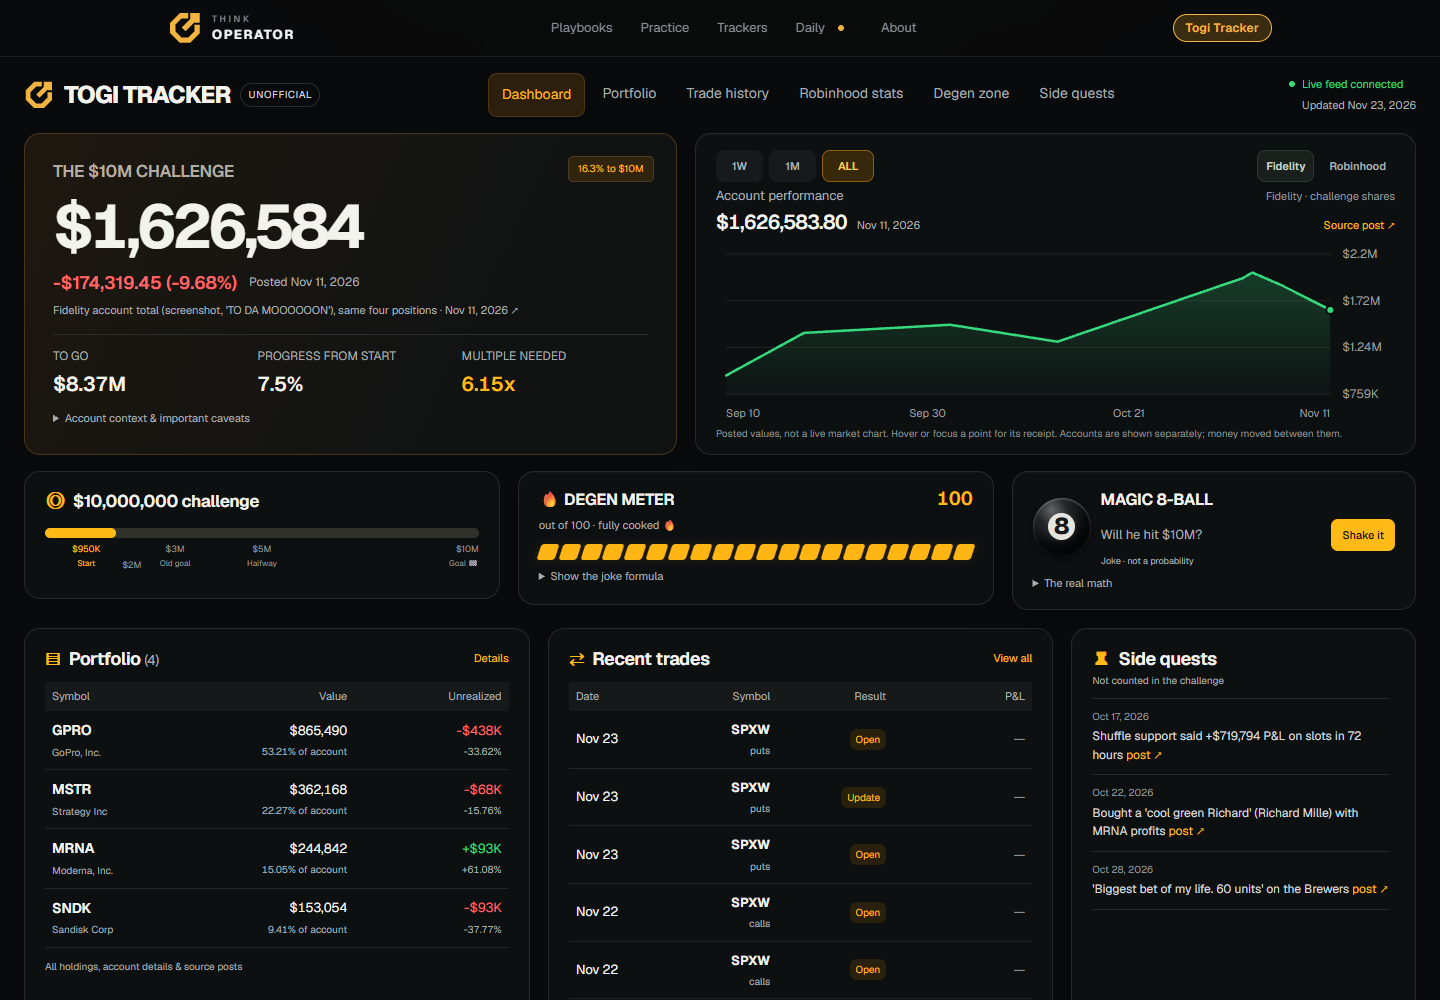
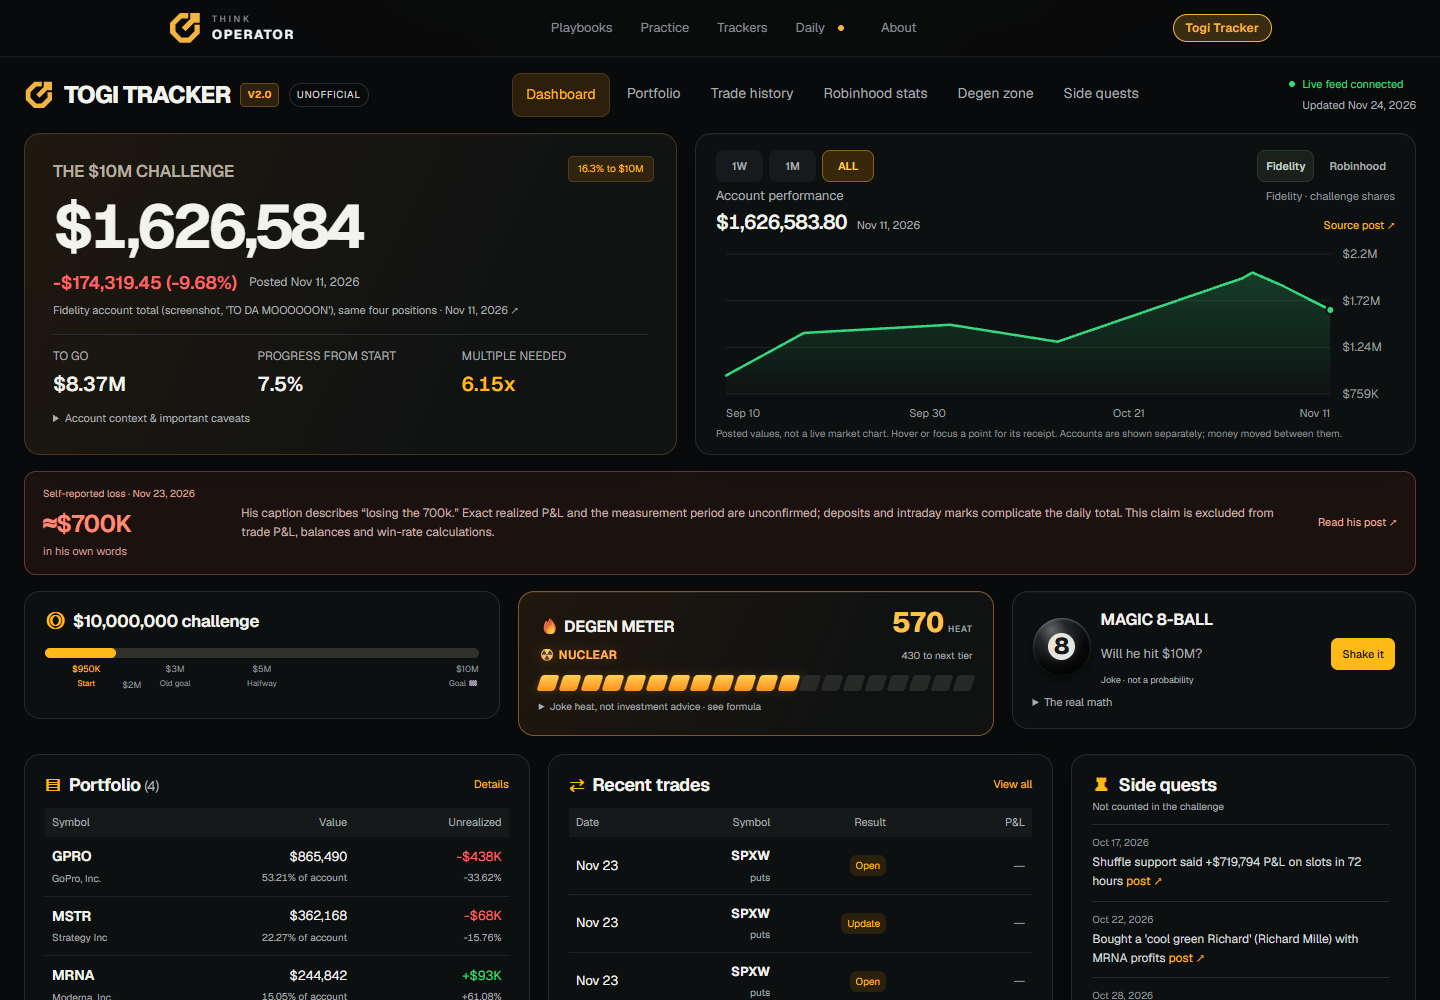
Add TOGI V2 heat tiers, more 8-Ball replies and sourced loss context

diff --git a/src/components/togi/renderTogi.ts b/src/components/togi/renderTogi.ts
@@ -4,6 +4,7 @@
 import { isRobinhoodStats, isTogiPortfolio, safeXUrl, type TogiData, type TogiTrade } from "../../lib/togi";
 import { renderPortfolioHtml, renderPortfolioSummaryHtml } from "./portfolio";
 import { renderRobinhoodHtml } from "./robinhood";
+import { degenHeat, pickEightBallAnswer, reportedLoss } from "./personality";
 
 const usd = (n: number, dp = 0) =>
   (n < 0 ? "-" : "") + "$" + Math.abs(n).toLocaleString("en-US", { minimumFractionDigits: dp, maximumFractionDigits: dp });
@@ -139,7 +140,15 @@ export function renderTogi(root: HTMLElement, D: TogiData): () => void {
   const nCasino = D.side_quests.filter((s) => /shuffle|slot|bet|units/i.test(s.text)).length;
   const parts: [string, number, number][] = [["Options plays", nOpt, 10], ["0DTE lottery tickets", n0, 15], ['"Full port" moments', nFP, 10], ["Dream-based theses", nDream, 5], ["Casino & sports side quests", nCasino, 5]];
   const raw = parts.reduce((a, p) => a + p[1] * p[2], 0), degen = Math.min(100, raw);
-  $("degen-strip").innerHTML = Array.from({ length: 20 }, (_, i) => `<i${i < degen / 5 ? ' class="lit"' : ""}></i>`).join("");
+  const heat = degenHeat(raw);
+  $("degen-heat").textContent = heat.points.toLocaleString("en-US");
+  $("degen-tier").textContent = `${heat.icon} ${heat.name}`;
+  $("degen-next").textContent = `${heat.remaining.toLocaleString("en-US")} to next tier`;
+  $("degen-strip").setAttribute("aria-valuenow", String(heat.points));
+  $("degen-strip").setAttribute("aria-valuemax", String(heat.next));
+  $("degen-strip").setAttribute("aria-valuetext", `${heat.name}: ${heat.points} joke heat points, next tier at ${heat.next}`);
+  $("degen-strip").innerHTML = Array.from({ length: 20 }, (_, i) => `<i aria-hidden="true"${i < heat.progress / 5 ? ' class="lit"' : ""}></i>`).join("");
+  $("degen-panel").dataset.heat = heat.points >= 500 ? "nuclear" : heat.points >= 250 ? "cooked" : "warming";
   count($("degen"), degen, (v) => String(Math.round(v)));
   const degenVerdict = degen >= 90 ? "fully cooked 🔥" : degen >= 60 ? "spicy" : degen >= 30 ? "mildly unhinged" : "suspiciously responsible";
   const verdictEl = $("degenverdict");
@@ -187,17 +196,26 @@ export function renderTogi(root: HTMLElement, D: TogiData): () => void {
   $("degenfine").textContent = `Joke formula: options play +10, 0DTE +15, "full port" +10, dream thesis +5, casino or sports side quest +5, capped at 100 (raw ${raw}). The counts are real, from the posts below. The score means nothing.`;
 
   // ---- Magic 8-ball (joke) ----
-  const ANS = ["Ask again after his next dream.", "Signs point to GPRO.", "Outlook: 0DTE.", "Reply hazy. Check his X.", "Only if MRNA cooperates.", "Concentrate and full port again.", "Don't count on it. He might, though.", "Cannot predict now. Market's closed.", "It is decidedly… not financial advice."];
-  let last = -1;
+  const recentAnswers: number[] = [];
   ($("shake") as HTMLButtonElement).onclick = () => {
-    let i: number;
-    do { i = Math.floor(Math.random() * ANS.length); } while (i === last);
-    last = i;
+    const result = pickEightBallAnswer(recentAnswers);
+    recentAnswers.push(result.index);
+    if (recentAnswers.length > 3) recentAnswers.shift();
     const e = $("eight"), a = $("answer");
+    const button = $("shake") as HTMLButtonElement;
+    button.disabled = true;
+    button.textContent = "Consulting…";
     e.classList.remove("shake"); a.classList.remove("pop"); void e.offsetWidth;
     e.classList.add("shake");
-    later(() => { a.textContent = ANS[i]; a.classList.add("pop"); }, RM ? 0 : 450);
+    later(() => { a.textContent = result.answer; a.classList.add("pop"); button.disabled = false; button.textContent = "Shake again"; }, RM ? 0 : 450);
   };
+
+  const lossClaim = reportedLoss(D);
+  const lossContext = $("reported-loss");
+  lossContext.hidden = !lossClaim;
+  if (lossClaim) {
+    lossContext.innerHTML = `<div><span class="reported-label">${lossClaim.attribution} · ${fmtDate(lossClaim.date)}</span><strong>≈$700K <span>in his own words</span></strong></div><p>His caption describes “losing the 700k.” Exact realized P&amp;L and the measurement period are unconfirmed; deposits and intraday marks complicate the daily total. This claim is excluded from trade P&amp;L, balances and win-rate calculations.</p><a href="${lossClaim.source}" ${ext}>Read his post ↗</a>`;
+  }
 
   // ---- Tape ----
   const tape = T.map((t) =>

diff --git a/src/components/togi/personality.ts b/src/components/togi/personality.ts
@@ -1,0 +1,76 @@
+import { isTogiPortfolio, xPostUrl, type TogiData } from "../../lib/togi";
+
+/** A joke scale with no ceiling. It never changes the tracker's financial figures. */
+export function degenHeat(raw: number) {
+  const points = Number.isFinite(raw) ? Math.max(0, raw) : 0;
+  const tiers = [
+    { min: 0, next: 100, name: "Suspiciously responsible", icon: "🧊" },
+    { min: 100, next: 250, name: "Spicy", icon: "🌶" },
+    { min: 250, next: 500, name: "Fully cooked", icon: "🔥" },
+    { min: 500, next: 1000, name: "Nuclear", icon: "☢" },
+    { min: 1000, next: 2000, name: "Financial final boss", icon: "👑" },
+    { min: 2000, next: 4000, name: "Call the fire department", icon: "🚒" },
+  ];
+  const tier = tiers.find((t) => points < t.next) ?? {
+    min: 4000,
+    next: 4000 * 2 ** (Math.floor(Math.log2(points / 4000)) + 1),
+    name: "Beyond science",
+    icon: "🛸",
+  };
+  return { points, ...tier, progress: points / tier.next * 100, remaining: tier.next - points };
+}
+
+export const EIGHT_BALL_ANSWERS = [
+  "Ask again after his next dream.",
+  "Signs point to GPRO.",
+  "Outlook: 0DTE.",
+  "Reply hazy. Check his X.",
+  "Only if MRNA cooperates.",
+  "Concentrate and full port again.",
+  "Don't count on it. He might, though.",
+  "Cannot predict now. Market's closed.",
+  "It is decidedly… not financial advice.",
+  "The coin has retained legal counsel.",
+  "Ask the flower lady. She runs risk now.",
+  "The Greeks are speaking. Nobody is listening.",
+  "The thesis came to him in a nap.",
+  "Robinhood has left the group chat.",
+  "Sources say: vibes.",
+  "The 8-ball has diversified into cash.",
+  "Market research: one coin, two outcomes.",
+  "Please hold. The dream is buffering.",
+  "Strong conviction. Weak Wi-Fi.",
+  "This answer expires at market close.",
+  "Bullish on the lore.",
+  "Your margin call is trying to reach you.",
+  "The stop loss is on a lunch break.",
+  "GoPro makes cameras. Apparently it also makes plot twists.",
+  "The coin flip needs a performance review.",
+  "An analyst has been consulted. It was another coin.",
+  "Risk management is currently a screenshot folder.",
+  "The flower lady has declined to comment.",
+  "All signs point to another all-caps tweet.",
+  "The market would like a word with your thesis.",
+  "The crystal ball switched to index funds.",
+  "Technical analysis says: have you tried sleeping?",
+  "The answer is priced in. The consequences aren't.",
+  "Your fortune cookie just requested collateral.",
+  "The coin says heads. The account says character development.",
+  "Due diligence complete: he likes the cameras.",
+] as const;
+
+/** Exclude the last three answers without an unbounded retry loop. */
+export function pickEightBallAnswer(recent: readonly number[], random = Math.random()) {
+  const available = EIGHT_BALL_ANSWERS.map((_, i) => i).filter((i) => !recent.slice(-3).includes(i));
+  const pick = Number.isFinite(random) ? Math.max(0, Math.min(.999999999, random)) : 0;
+  const index = available[Math.floor(pick * available.length)];
+  return { index, answer: EIGHT_BALL_ANSWERS[index] };
+}
+
+/** Surface the already-audited caption as a claim, never as a booked trade or balance. */
+export function reportedLoss(data: TogiData) {
+  if (!isTogiPortfolio(data.portfolio)) return null;
+  const source = "https://x.com/ShaneStoffer/status/2124901951133393202";
+  const post = data.portfolio.commentary?.find((c) => xPostUrl(c.source_url) === source && /losing the 700k/i.test(c.text));
+  return post ? { date: post.date, amount: 700000, source, attribution: "Self-reported loss" } : null;
+}

diff --git a/src/app/togi/togi.css b/src/app/togi/togi.css
@@ -391,3 +391,27 @@
 @media(max-width:767px){.togi-tracker .chart svg{min-height:184px}.togi-tracker .dashboard-panels>.panel{min-height:0}.togi-tracker .side ul{max-height:300px}}
 .togi-tracker .odds .eight{width:58px;height:58px;border-radius:50%;display:flex;align-items:center;justify-content:center;background:radial-gradient(circle at 32% 20%,#626465 0,#242729 24%,#08090a 58%,#000 100%);box-shadow:inset 0 1px 2px #ffffff50,0 4px 10px #0008;line-height:1}
 .togi-tracker .eight>span{display:flex;align-items:center;justify-content:center;width:27px;height:27px;border-radius:50%;background:#e5e5de;color:#171819;font-size:23px;font-weight:800;box-shadow:0 0 7px #ffffff25}
+/* V2 personality: uncapped joke heat and clearly attributed reporting. */
+.togi-tracker .tg-version{font-size:10px;font-weight:700;letter-spacing:.04em;color:var(--accent);background:#2c210c;border:1px solid #6b4a17;border-radius:5px;padding:3px 6px;white-space:nowrap}
+.togi-tracker .degen .heat-value{display:flex;align-items:baseline;gap:5px;color:#ffc34c;font-size:28px;line-height:1;font-weight:750;font-variant-numeric:tabular-nums;letter-spacing:-.04em}
+.togi-tracker .heat-value small{font-size:9px;letter-spacing:.07em;color:var(--muted);font-weight:500}
+.togi-tracker .heat-status{display:flex;align-items:center;justify-content:space-between;gap:8px;margin-top:7px;font-size:11px;color:var(--muted)}
+.togi-tracker #degen-tier{font-weight:650;font-size:12px;color:#ffc34c;letter-spacing:.02em;text-transform:uppercase}
+.togi-tracker #degen-next{font-size:10px;text-align:right}
+.togi-tracker .degen[data-heat="nuclear"]{border-color:#875522;background:linear-gradient(115deg,#20170d,#101212 70%);box-shadow:inset 0 1px #ffd47212}
+.togi-tracker .degen[data-heat="nuclear"] #degen-tier{color:#ffb654;text-shadow:0 0 12px #ff881c45}
+.togi-tracker .degen[data-heat="nuclear"] .degen-strip .lit{background:linear-gradient(180deg,#ffcf58,#ff9219);box-shadow:0 0 8px #ff94173d}
+.togi-tracker .degen-strip:hover .lit{filter:brightness(1.2)}
+.togi-tracker .legacy-degen{font-size:12px;color:var(--muted);margin-top:14px}
+.togi-tracker .degen .degen-breakdown>summary{font-size:10px}
+.togi-tracker .odds .answer{line-height:1.45;overflow-wrap:anywhere}
+.togi-tracker .odds .btn:disabled{opacity:.7;cursor:wait}
+.togi-tracker .reported-loss{display:grid;grid-template-columns:180px minmax(0,1fr) auto;align-items:center;gap:18px;margin-top:16px;border:1px solid #633830;border-radius:12px;background:#1b1210;padding:14px 18px}
+.togi-tracker .reported-loss[hidden]{display:none}
+.togi-tracker .reported-label{display:block;font-size:10px;color:#dfa89d;margin-bottom:4px}
+.togi-tracker .reported-loss strong{font-size:24px;letter-spacing:-.03em;font-weight:650;color:#ff8b75;white-space:nowrap}
+.togi-tracker .reported-loss strong>span{display:block;font-size:11px;font-weight:400;letter-spacing:0;color:#c79a91}
+.togi-tracker .reported-loss p{font-size:12px;line-height:1.55;color:#c5b2ad}
+.togi-tracker .reported-loss>a{font-size:11px;white-space:nowrap;color:#e3ae9e}
+@media(max-width:767px){.togi-tracker .reported-loss{grid-template-columns:1fr;gap:8px;padding:15px}.togi-tracker .reported-loss strong>span{display:inline;margin-left:8px}.togi-tracker .reported-loss p{font-size:11px}.togi-tracker .tg-version{padding:2px 4px;font-size:9px}}
+@media(max-width:374px){.togi-tracker .tg-title{font-size:18px}.togi-tracker .tg-top{gap:6px}.togi-tracker .tg-top>.mark{width:22px;height:22px}.togi-tracker .tg-top .chip{font-size:8px;padding:3px 5px}}

diff --git a/src/components/togi/TogiTracker.tsx b/src/components/togi/TogiTracker.tsx
@@ -43,6 +43,7 @@ export function TogiTracker() {
           <header className="tg-top">
             <Mark />
             <h1 className="tg-title">Togi Tracker</h1>
+            <span className="tg-version">V2.0</span>
             <span className="chip">Unofficial</span>
           <nav className="tg-jump" aria-label="Tracker sections">
             <a href="#overview">Dashboard</a>
@@ -98,6 +99,8 @@ export function TogiTracker() {
 
         </div>
 
+        <aside className="reported-loss" id="reported-loss" aria-label="Self-reported loss context" hidden></aside>
+
         <section className="grid2" id="extras">
             <div className="panel challenge-progress"><h2><span aria-hidden="true">◎</span> $10,000,000 challenge</h2>              <div className="road"><div className="road-heading"><span>The road to $10,000,000</span><span aria-hidden="true">🏁</span></div>
                 <div className="track" role="progressbar" id="bar" aria-valuemin={0} aria-valuemax={100} aria-label="Progress to $10M">
@@ -108,11 +111,12 @@ export function TogiTracker() {
 </div>
             <div className="panel panel-depth degen" id="degen-panel">
               <div className="phead">
-                <div><p className="lbl">🔥 Degen meter</p><p className="score tabular" id="degen">0</p><p className="sub">out of 100 · <span id="degenverdict"></span></p></div>
+                <div><p className="lbl">🔥 Degen meter</p><p className="heat-value"><span id="degen-heat">0</span><small>HEAT</small></p></div>
                 <span className="badge joke">Joke formula</span>
               </div>
-              <div className="degen-strip" id="degen-strip" aria-hidden="true"></div>
-              <details className="degen-breakdown"><summary>Show the joke formula</summary><div className="degen-gauge-wrap" id="degen-gauge"></div><div className="bars" id="degenbars"></div>
+              <div className="heat-status"><span id="degen-tier"></span><span id="degen-next"></span></div>
+              <div className="degen-strip" id="degen-strip" role="progressbar" aria-label="Joke heat points toward next tier" aria-valuemin={0}></div>
+              <details className="degen-breakdown"><summary>Joke heat, not investment advice · see formula</summary><p className="legacy-degen">Original gauge: <span id="degen">0</span>/100 · <span id="degenverdict"></span></p><div className="degen-gauge-wrap" id="degen-gauge"></div><div className="bars" id="degenbars"></div>
               <p className="fine" id="degenfine"></p><p className="degen-latest" id="degenlatest"></p></details>
             </div>
 

diff --git a/docs/TOGI-V2-REVIEW.md b/docs/TOGI-V2-REVIEW.md
@@ -1,0 +1,12 @@
+# TOGI V2 follow-up
+
+Requested follow-up to the approved, deployed dashboard:
+
+- V2.0 badge beside the title.
+- Uncapped joke heat points, escalating tiers, and a moving target instead of a permanently full 100/100 display. The original capped gauge and unchanged point-count formula remain in the expandable breakdown.
+- 36 unique Magic 8-Ball replies, excluding the previous three choices. Shake controls prevent overlapping responses, and reduced motion remains supported.
+- A prominent, separate self-reported-loss note for November 23. The existing live feed quotes Togi's caption describing “losing the 700k” and links https://x.com/ShaneStoffer/status/2124901951133393202. This is shown as approximately $700K, attributed to him. It is not entered as a closed trade, subtracted from balances, or included in realized P&L or win-rate calculations. Exact realized P&L and the measurement period remain unverified. Direct X access was blocked; the caption was cross-checked against the existing feed and indexed copies of the same post. The embedded video was not independently transcribed.
+
+No Worker, backend data, feed snapshot, financial formula, historical trade, or source receipt was modified.
+
+Validation: 106 automated tests, TypeScript, lint (three existing warnings), the production export, and responsive browser checks with both live-response replay and offline fallback. Browser verification also checks tier progress, answer non-repetition, attribution, original metric/source parity, and chart/filter interactions.
